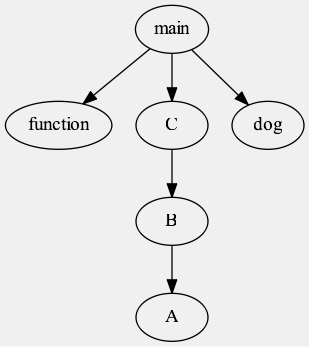
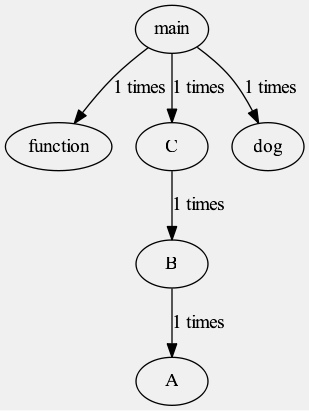
树状图中显示调用次数

diff --git a/src/com/aspectj/tree/makePic.java b/src/com/aspectj/tree/makePic.java
@@ -1,4 +1,5 @@
 package com.aspectj.tree;
+
 import java.io.File;
 import java.util.regex.Matcher;
 import java.util.regex.Pattern;
@@ -6,100 +7,120 @@ import java.util.regex.Pattern;
 import org.eclipse.swt.internal.win32.SIZE;
 import org.eclipse.swt.widgets.TreeItem;
 
+import com.aspectj.demo.Frame;
 
-public class makePic
-{
+public class makePic {
+	String functionName[] = Frame.getfunctionnamearray();
+	int functionTime[] = Frame.getfunctiontimearray();
+	int functionLength = Frame.getfunctionlenth();
 	DrawTree drawTree;
 	GraphViz gv = null;
+
 	public makePic(DrawTree drawTre) {
 		// TODO Auto-generated constructor stub
 		this.drawTree = drawTre;
 		this.start();
 	}
-	String getline(TreeItem item,int num){
+
+	String getline(TreeItem item, int num) {
 		String fullName = item.getText();
-    	String acccessLevel = null;
-    	String returnValue = null;
-    	String className = null;
-    	String funcName = null;
-    	String argsString = null;
-    	Pattern p = Pattern.compile("^(public|private|protected) (static )+(.*) (.*)\\.(.*)\\((.*)\\)$");
-    	Matcher m1 = p.matcher(fullName);
-    	while (m1.find()) {
+		String acccessLevel = null;
+		String returnValue = null;
+		String className = null;
+		String funcName = null;
+		String argsString = null;
+		Pattern p = Pattern
+				.compile("^(public|private|protected) (static )+(.*) (.*)\\.(.*)\\((.*)\\)$");
+		Matcher m1 = p.matcher(fullName);
+		while (m1.find()) {
 			acccessLevel = m1.group(1);
 			returnValue = m1.group(3);
 			className = m1.group(4);
 			funcName = m1.group(5);
 			argsString = m1.group(6);
 		}
-    	switch (num){
-    	case 1:
-    		return acccessLevel;
-    	case 2:
-    		return returnValue;
-    	case 3:
-    		return className;
-    	case 4:
-    		return funcName;
-    	case 5:
-    		return argsString;
-    	default:
-    		return "";
-    	}
+		int functionNum = 0;
+		for (int i = 0; i < functionLength; i++) {
+			if (fullName.equals(functionName[i])) {
+				functionNum = functionTime[i];
+				break;
+			}
+		}
+		switch (num) {
+		case 1:
+			return acccessLevel;
+		case 2:
+			return returnValue;
+		case 3:
+			return className;
+		case 4:
+			return funcName;
+		case 5:
+			return argsString;
+		case 6:
+			return String.valueOf(functionNum);
+		default:
+			return "";
+		}
 	}
+
 	void traverse(TreeItem item) {
 		TreeItem[] childrenItems = item.getItems();
 		if (childrenItems.length == 0) {
 			return;
 		}
 		for (TreeItem childItem : childrenItems) {
-	    	String leftName = getline(item, 4);
-	    	String rightName = getline(childItem, 4);
-	    	String line = leftName+" -> " + rightName+";";
-	    	gv.addln(line);
+			String leftName = getline(item, 4);
+			String rightName = getline(childItem, 4);
+			String num = getline(childItem, 6);
+			String s = Integer.valueOf(num) > 1 ? "time" : "times";
+			String line = leftName + " -> " + rightName + "[label=\"" + num
+					+ " " + s + "\"]" + ";";
+			gv.addln(line);
 			traverse(childItem);
 		}
 	}
-   private void start()
-   {
-      gv = new GraphViz();
-      gv.addln(gv.start_graph());
-      gv.addln("bgcolor = \"#F0F0F0\";");
-      traverse(drawTree.root);
-      gv.addln(gv.end_graph());
-      System.out.println(gv.getDotSource());
-      //String type = "gif";
- //     String type = "dot";
-//      String type = "fig";    // open with xfig
-//      String type = "pdf";
-//      String type = "ps";
-     // String type = "svg";    // open with inkscape
-      String type = "png";
-      //File out = new File("/tmp/out." + type);   // Linux
-      File out = new File("src/com/aspectj/tree/example." + type);    // Windows
-      gv.writeGraphToFile( gv.getGraph( gv.getDotSource(), type ), out );
-   }
-   
-   private void start2()
-   {
-      String dir = "/home/jabba/eclipse2/laszlo.sajat/graphviz-java-api";     // Linux
-      String input = dir + "/sample/simple.dot";
-//	   String input = "c:/eclipse.ws/graphviz-java-api/sample/simple.dot";    // Windows
-	   
-	   GraphViz gv = new GraphViz();
-	   gv.readSource(input);
-	   System.out.println(gv.getDotSource());
-   		
-      String type = "gif";
-//    String type = "dot";
-//    String type = "fig";    // open with xfig
-//    String type = "pdf";
-//    String type = "ps";
-//    String type = "svg";    // open with inkscape
-//    String type = "png";
-//      String type = "plain";
-	   File out = new File("/tmp/simple." + type);   // Linux
-//	   File out = new File("c:/eclipse.ws/graphviz-java-api/tmp/simple." + type);   // Windows
-	   gv.writeGraphToFile( gv.getGraph( gv.getDotSource(), type ), out );
-   }
+
+	private void start() {
+		gv = new GraphViz();
+		gv.addln(gv.start_graph());
+		gv.addln("bgcolor = \"#F0F0F0\";");
+		traverse(drawTree.root);
+		gv.addln(gv.end_graph());
+		System.out.println(gv.getDotSource());
+		// String type = "gif";
+		// String type = "dot";
+		// String type = "fig"; // open with xfig
+		// String type = "pdf";
+		// String type = "ps";
+		// String type = "svg"; // open with inkscape
+		String type = "png";
+		// File out = new File("/tmp/out." + type); // Linux
+		File out = new File("src/com/aspectj/tree/example." + type); // Windows
+		gv.writeGraphToFile(gv.getGraph(gv.getDotSource(), type), out);
+	}
+
+	private void start2() {
+		String dir = "/home/jabba/eclipse2/laszlo.sajat/graphviz-java-api"; // Linux
+		String input = dir + "/sample/simple.dot";
+		// String input = "c:/eclipse.ws/graphviz-java-api/sample/simple.dot";
+		// // Windows
+
+		GraphViz gv = new GraphViz();
+		gv.readSource(input);
+		System.out.println(gv.getDotSource());
+
+		String type = "gif";
+		// String type = "dot";
+		// String type = "fig"; // open with xfig
+		// String type = "pdf";
+		// String type = "ps";
+		// String type = "svg"; // open with inkscape
+		// String type = "png";
+		// String type = "plain";
+		File out = new File("/tmp/simple." + type); // Linux
+		// File out = new File("c:/eclipse.ws/graphviz-java-api/tmp/simple." +
+		// type); // Windows
+		gv.writeGraphToFile(gv.getGraph(gv.getDotSource(), type), out);
+	}
 }
